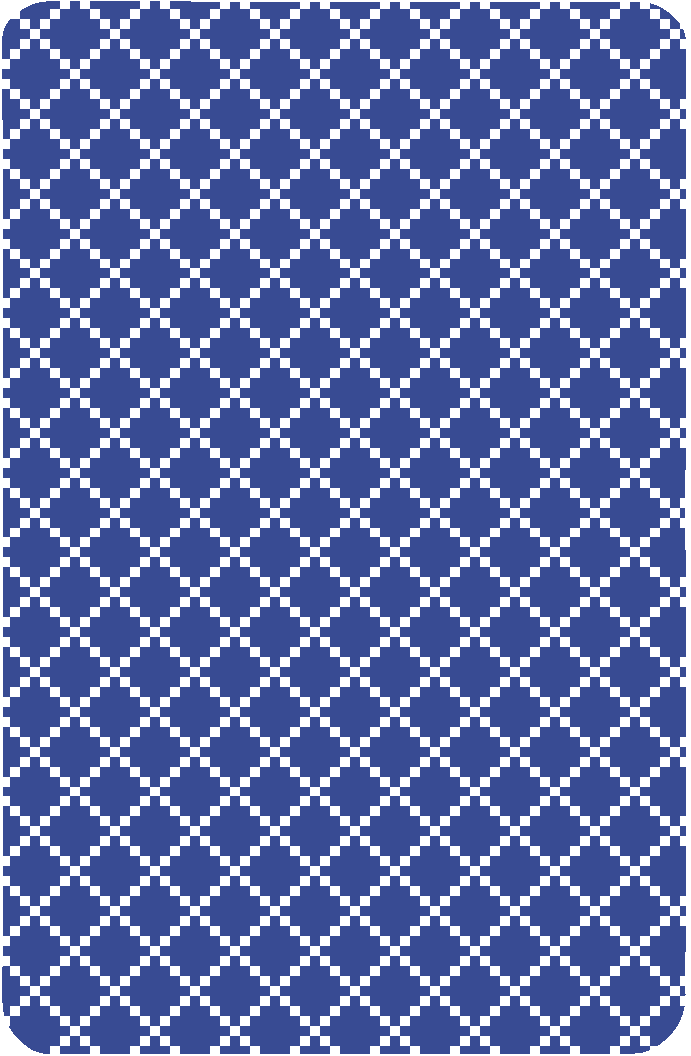
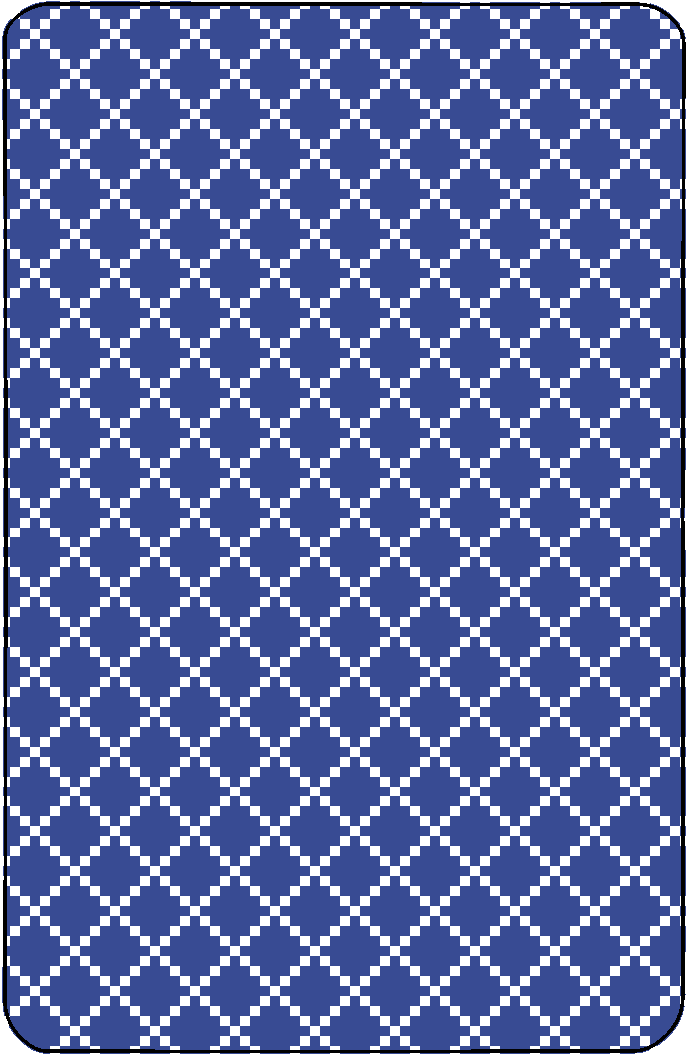
placeholder

diff --git a/methlib.js b/methlib.js
@@ -27,6 +27,9 @@ const SUITS = ['C', 'S', 'H', 'D'];
 
 const CARDVALS = ['A', '2', '3', '4', '5', '6', '7', '8', '9', '10', 'J', 'Q', 'K'];
 
+let cardBack = new Image();
+cardBack.src = "https://javakid0826.github.io/Methlib-js/Images/Back.png";
+
 function randomize(inArr) {
     let indices = [];
     for (let i = 0; i < inArr.size(); i++) {
